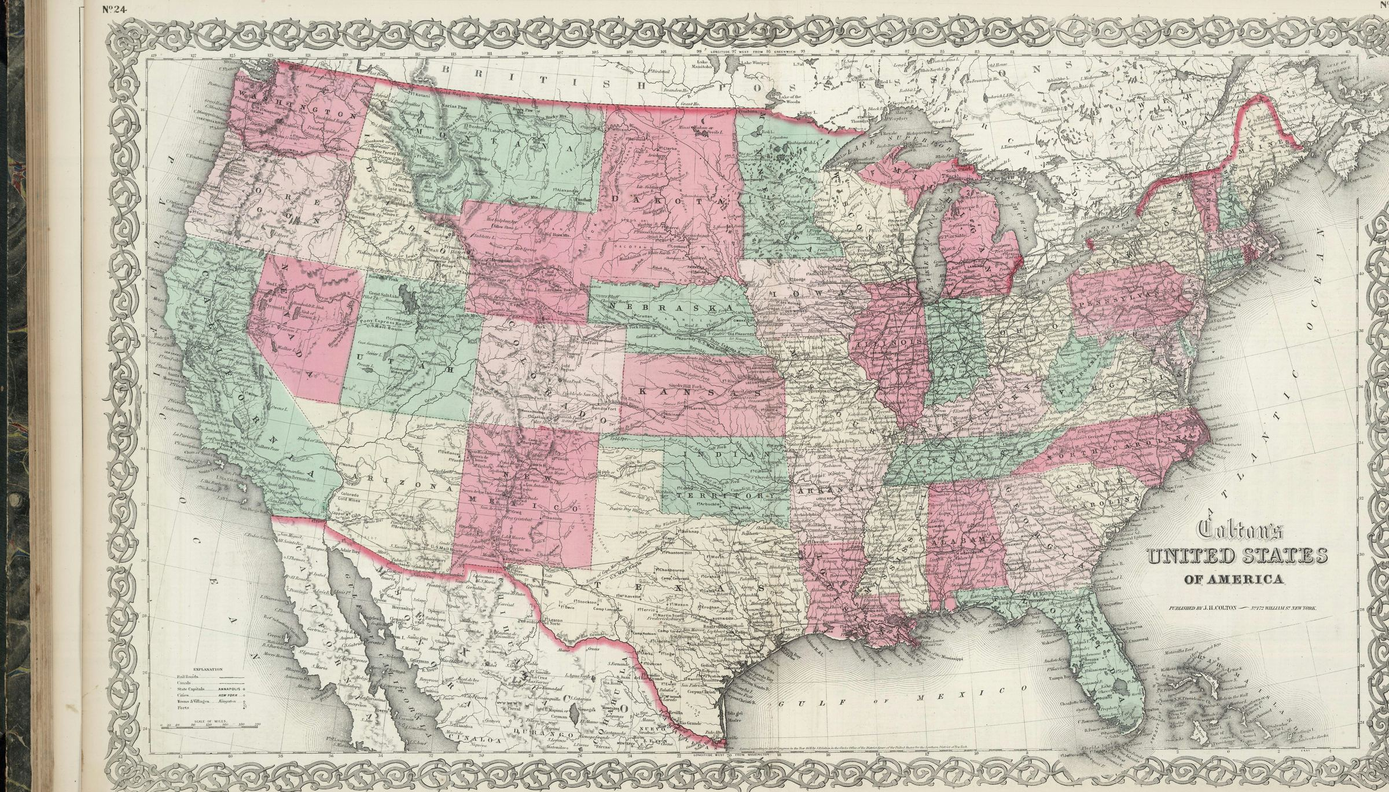
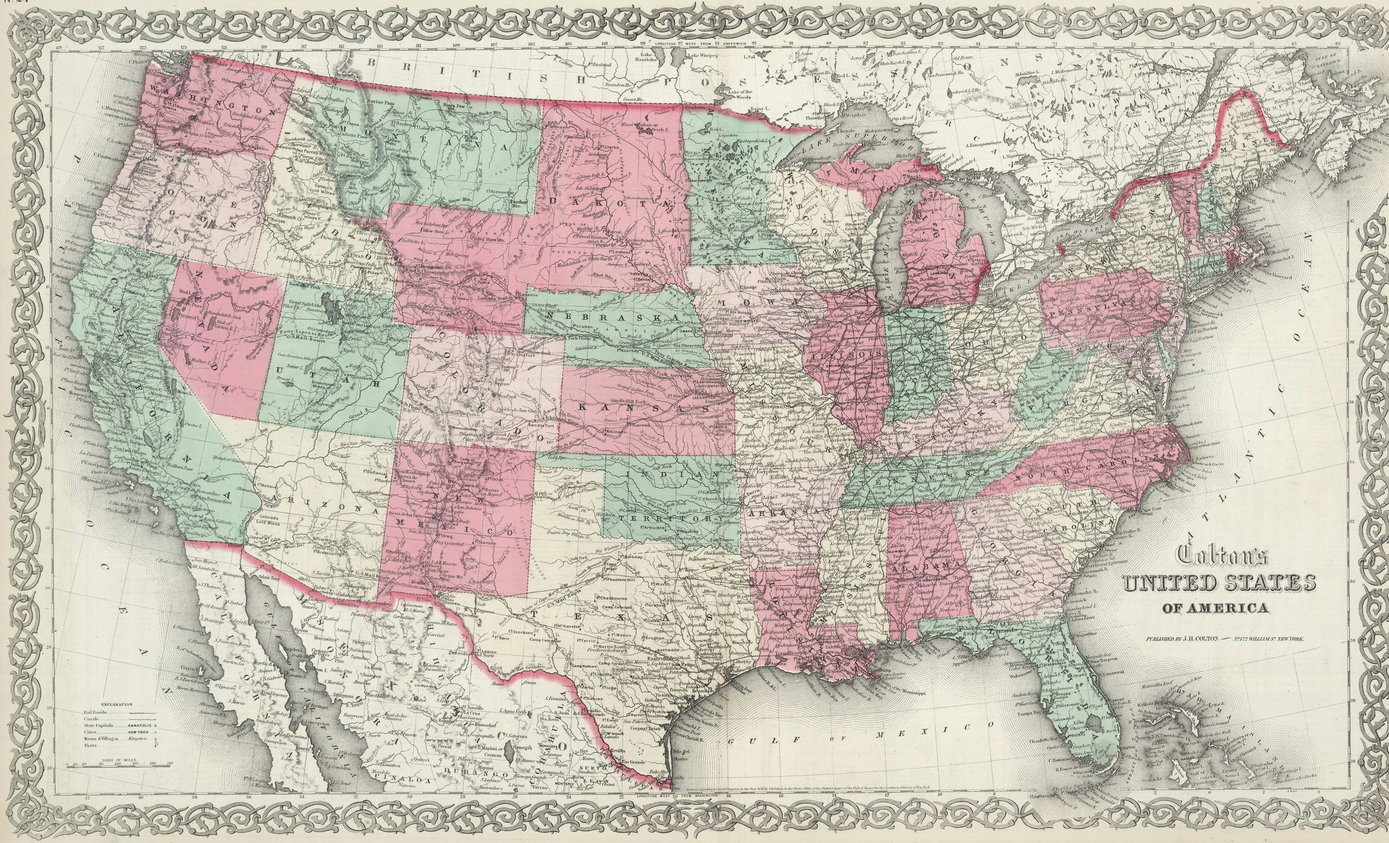
Recrop map to exclude book spine, remove compass rose
Johan: "on the left side of the map, i can see the scanned book pages
from when the map was scanned... move the map a bit more to the left
so the entire intricate border shows." The original crop box included
~770px of book-spine/blank-page margin before the ornate border's
artwork actually started, invisible at the downscaled preview size used
to check it but obvious at full size. Found the real border edges by
reading pixel positions directly off all four sides of the scan and
recropped tight to just outside the scrollwork - no book spine, full
border visible on every side, re-verified by rendering all 50 pins back
onto the new crop (same thin-plate-spline coordinates, re-expressed as
percentages of the new crop box).

Also removed the hand-drawn CompassRose component per Johan's separate
request ("that weird symbolic compass thingy... just delete it all") -
it predated the real antique map and was a stand-in for not having one;
with a real period engraving in place it's redundant. Deleted the
component outright (unused anywhere else) along with its CSS rule.

diff --git a/frontend/src/mapCoordinates.ts b/frontend/src/mapCoordinates.ts
@@ -14,54 +14,54 @@
  * antique-styled background, not a claim of survey-grade accuracy, so
  * "looks right over the real scan" was the bar, not sub-pixel precision. */
 export const METRO_MAP_COORDINATES: Record<string, [number, number]> = {
-  "anaheim-ca": [18.082, 60.389],
-  "atlanta-ga": [71.74, 64.19],
-  "austin-tx": [50.906, 78.557],
-  "baltimore-md": [81.922, 41.614],
-  "boston-ma": [89.464, 27.143],
-  "charlotte-nc": [76.935, 57.069],
-  "chicago-il": [66.133, 37.817],
-  "cincinnati-oh": [69.921, 43.372],
-  "cleveland-oh": [74.286, 31.291],
-  "columbus-oh": [72.262, 38.53],
-  "dallas-tx": [52.093, 69.473],
-  "denver-co": [40.355, 44.744],
-  "detroit-mi": [72.426, 28.571],
-  "fort-lauderdale-fl": [80.767, 89.939],
-  "fort-worth-tx": [49.897, 70.218],
-  "houston-tx": [57.388, 79.918],
-  "indianapolis-in": [67.544, 42.179],
-  "jacksonville-fl": [77.26, 75.744],
-  "kansas-city-mo": [53.622, 46.208],
-  "las-vegas-nv": [24.592, 54.367],
-  "los-angeles-ca": [17.237, 59.453],
-  "miami-fl": [80.056, 90.093],
-  "milwaukee-wi": [67.129, 34.071],
-  "minneapolis-mn": [56.944, 25.901],
-  "montgomery-county-pa": [83.537, 38.925],
-  "nashville-tn": [67.843, 58.892],
-  "nassau-county-ny": [86.191, 37.2],
-  "new-brunswick-nj": [84.896, 37.91],
-  "new-york-ny": [85.857, 37.057],
-  "newark-nj": [85.247, 37.033],
-  "oakland-ca": [12.303, 45.055],
-  "orlando-fl": [78.358, 82.113],
-  "philadelphia-pa": [83.68, 39.837],
-  "phoenix-az": [27.346, 65.654],
-  "pittsburgh-pa": [76.508, 35.905],
-  "portland-or": [18.041, 18.352],
-  "providence-ri": [89.801, 31.825],
-  "riverside-ca": [22.18, 59.007],
-  "sacramento-ca": [16.989, 41.131],
-  "san-antonio-tx": [47.664, 81.697],
-  "san-diego-ca": [18.961, 63.358],
-  "san-francisco-ca": [12.172, 44.995],
-  "san-jose-ca": [13.086, 49.223],
-  "seattle-wa": [21.358, 13.03],
-  "st-louis-mo": [62.128, 52.969],
-  "tampa-fl": [76.014, 83.387],
-  "virginia-beach-va": [83.374, 51.225],
-  "warren-mi": [72.519, 29.142],
-  "washington-dc": [80.608, 43.099],
-  "west-palm-beach-fl": [80.872, 87.86],
+  "anaheim-ca": [11.744, 59.311],
+  "atlanta-ga": [69.207, 63.131],
+  "austin-tx": [46.897, 77.574],
+  "baltimore-md": [80.112, 40.438],
+  "boston-ma": [88.188, 25.891],
+  "charlotte-nc": [74.771, 55.974],
+  "chicago-il": [63.202, 36.62],
+  "cincinnati-oh": [67.26, 42.205],
+  "cleveland-oh": [71.934, 30.06],
+  "columbus-oh": [69.766, 37.337],
+  "dallas-tx": [48.167, 68.442],
+  "denver-co": [35.597, 43.584],
+  "detroit-mi": [69.942, 27.327],
+  "fort-lauderdale-fl": [78.875, 89.015],
+  "fort-worth-tx": [45.815, 69.191],
+  "houston-tx": [53.837, 78.942],
+  "indianapolis-in": [64.714, 41.006],
+  "jacksonville-fl": [75.119, 74.746],
+  "kansas-city-mo": [49.804, 45.056],
+  "las-vegas-nv": [18.716, 53.257],
+  "los-angeles-ca": [10.84, 58.37],
+  "miami-fl": [78.113, 89.171],
+  "milwaukee-wi": [64.27, 32.856],
+  "minneapolis-mn": [53.362, 24.643],
+  "montgomery-county-pa": [81.841, 37.735],
+  "nashville-tn": [65.034, 57.806],
+  "nassau-county-ny": [84.682, 36.0],
+  "new-brunswick-nj": [83.296, 36.715],
+  "new-york-ny": [84.325, 35.857],
+  "newark-nj": [83.672, 35.833],
+  "oakland-ca": [5.556, 43.897],
+  "orlando-fl": [76.294, 81.148],
+  "philadelphia-pa": [81.994, 38.652],
+  "phoenix-az": [21.666, 64.603],
+  "pittsburgh-pa": [74.313, 34.699],
+  "portland-or": [11.701, 17.054],
+  "providence-ri": [88.549, 30.598],
+  "riverside-ca": [16.134, 57.921],
+  "sacramento-ca": [10.575, 39.952],
+  "san-antonio-tx": [43.425, 80.73],
+  "san-diego-ca": [12.686, 62.295],
+  "san-francisco-ca": [5.416, 43.836],
+  "san-jose-ca": [6.394, 48.087],
+  "seattle-wa": [15.253, 11.705],
+  "st-louis-mo": [58.914, 51.852],
+  "tampa-fl": [73.784, 82.429],
+  "virginia-beach-va": [81.666, 50.099],
+  "warren-mi": [70.042, 27.901],
+  "washington-dc": [78.704, 41.93],
+  "west-palm-beach-fl": [78.987, 86.925],
 };

diff --git a/frontend/src/index.css b/frontend/src/index.css
@@ -570,16 +570,13 @@ header h1 {
 /* Antique cartography, not a flat UI panel: an aged-parchment ground,
    a double-ruled border (the two box-shadow rings below, a real
    convention on 18th/19th-century engraved maps, not an invented
-   flourish), a title cartouche, and a compass rose - see the reference
-   Johan sent. The map now looks like a real object placed on the page,
-   not another bordered box matching the rest of the UI. */
+   flourish), and a title cartouche - see the reference Johan sent. The
+   map now looks like a real object placed on the page, not another
+   bordered box matching the rest of the UI. */
 /* Same gold border-image as the search bar (Johan: "Lets match the
-   borders with the map as well") - the hand-drawn CompassRose/
-   OrnateCorners scroll was always the fallback for not having a real
-   asset; now that one exists, both ornate frames in the app use it,
-   not just one. The parchment interior (background-color/texture)
-   stays - that tone is the map's own, not the mismatch Johan flagged
-   on the search bar. */
+   borders with the map as well"). The parchment interior (background-
+   color/texture) stays - that tone is the map's own, not the mismatch
+   Johan flagged on the search bar. */
 .metro-map-canvas {
   width: 100%;
   display: flex;
@@ -638,15 +635,6 @@ header h1 {
   height: 1px;
   background: var(--map-ink);
   opacity: 0.55;
-}
-
-.compass-rose {
-  position: absolute;
-  top: 14px;
-  right: 16px;
-  color: var(--map-ink);
-  opacity: 0.8;
-  pointer-events: none;
 }
 
 /* Locked to the source image's own aspect ratio (via the inline

diff --git a/frontend/src/components/UsMetroMap.tsx b/frontend/src/components/UsMetroMap.tsx
@@ -1,14 +1,13 @@
 import { useState } from "react";
 import coltonMap from "../assets/colton-us-map-1870s.jpg";
 import { METRO_MAP_COORDINATES } from "../mapCoordinates";
-import { CompassRose } from "./CompassRose";
 import type { Metro } from "../types";
 
-// The map image's own aspect ratio (2400x1368) - the image wrapper is
+// The map image's own aspect ratio (2400x1457) - the image wrapper is
 // locked to this via CSS so percentage pin coordinates (calibrated
 // against the image's pixels, see mapCoordinates.ts) always land in the
 // right place, with no object-fit letterboxing to account for.
-const MAP_ASPECT_RATIO = "2400 / 1368";
+const MAP_ASPECT_RATIO = "2400 / 1457";
 
 interface Props {
   metros: Metro[];
@@ -29,7 +28,6 @@ export function UsMetroMap({ metros, onSelect }: Props) {
           The United States
           <span className="metro-map-title-rule" aria-hidden="true" />
         </p>
-        <CompassRose size={64} />
         <div className="metro-map-image-wrap" style={{ aspectRatio: MAP_ASPECT_RATIO }}>
           <img
             src={coltonMap}
